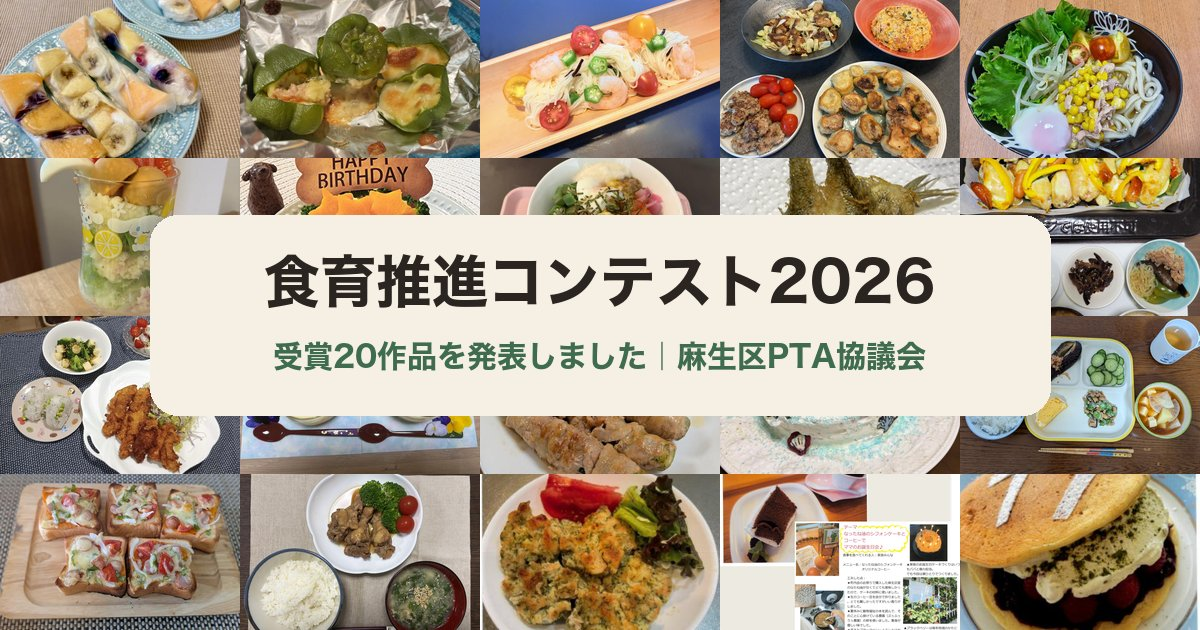
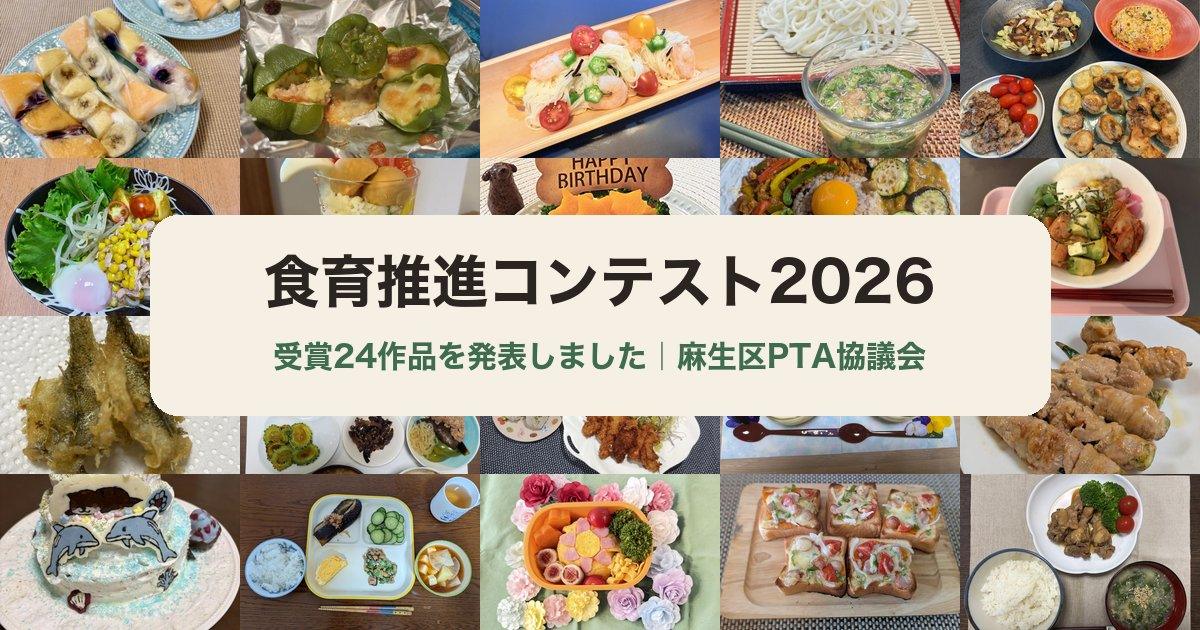
[community/pta] 食育コンテスト：転送用の受賞作品共有ページに追加4件（No.11・46・91・118）

diff --git a/jusho/index.html b/jusho/index.html
@@ -4,18 +4,18 @@
 <meta charset="UTF-8">
 <meta name="viewport" content="width=device-width, initial-scale=1.0">
 <title>受賞作品の発表｜麻生区PTA協議会・食育コンテスト2026</title>
-<meta name="description" content="麻生区PTA協議会 食育推進コンテスト2026の受賞20作品と、後援団体の皆さまからのコメントを紹介します。">
+<meta name="description" content="麻生区PTA協議会 食育推進コンテスト2026の受賞作品と、後援団体の皆さまからのコメントを紹介します。">
 <meta property="og:type" content="website">
 <meta property="og:site_name" content="麻生区PTA協議会・食育コンテスト2026">
 <meta property="og:title" content="受賞作品の発表｜麻生区PTA協議会・食育コンテスト2026">
-<meta property="og:description" content="麻生区PTA協議会 食育推進コンテスト2026の受賞20作品と、後援団体の皆さまからのコメントを紹介します。">
+<meta property="og:description" content="麻生区PTA協議会 食育推進コンテスト2026の受賞作品と、後援団体の皆さまからのコメントを紹介します。">
 <meta property="og:url" content="https://shokuiku.asaokupta.org/2026/">
 <meta property="og:image" content="https://yoshi-pta.github.io/shokuiku-contest-2026/jusho/og/top.jpg">
 <meta property="og:image:width" content="1200">
 <meta property="og:image:height" content="630">
 <meta name="twitter:card" content="summary_large_image">
 <meta name="twitter:title" content="受賞作品の発表｜麻生区PTA協議会・食育コンテスト2026">
-<meta name="twitter:description" content="麻生区PTA協議会 食育推進コンテスト2026の受賞20作品と、後援団体の皆さまからのコメントを紹介します。">
+<meta name="twitter:description" content="麻生区PTA協議会 食育推進コンテスト2026の受賞作品と、後援団体の皆さまからのコメントを紹介します。">
 <meta name="twitter:image" content="https://yoshi-pta.github.io/shokuiku-contest-2026/jusho/og/top.jpg">
 <script>location.replace("https://shokuiku.asaokupta.org/2026/" + location.search + location.hash);</script>
 </head>

diff --git a/jusho/w/011.html b/jusho/w/011.html
@@ -1,0 +1,27 @@
+<!DOCTYPE html>
+<html lang="ja">
+<head>
+<meta charset="UTF-8">
+<meta name="viewport" content="width=device-width, initial-scale=1.0">
+<title>🏆食生活改善推進委員賞「サバ味噌ニラダレつけ麺」｜麻生区PTA協議会・食育コンテスト2026</title>
+<meta name="description" content="テーマ「夏を乗り切るスタミナ昼ご飯」 麻生区PTA協議会 食育推進コンテスト2026の受賞作品です。">
+<meta property="og:type" content="website">
+<meta property="og:site_name" content="麻生区PTA協議会・食育コンテスト2026">
+<meta property="og:title" content="🏆食生活改善推進委員賞「サバ味噌ニラダレつけ麺」｜麻生区PTA協議会・食育コンテスト2026">
+<meta property="og:description" content="テーマ「夏を乗り切るスタミナ昼ご飯」 麻生区PTA協議会 食育推進コンテスト2026の受賞作品です。">
+<meta property="og:url" content="https://shokuiku.asaokupta.org/2026/w/011.html">
+<meta property="og:image" content="https://yoshi-pta.github.io/shokuiku-contest-2026/jusho/og/011.jpg">
+<meta property="og:image:width" content="1200">
+<meta property="og:image:height" content="630">
+<meta name="twitter:card" content="summary_large_image">
+<meta name="twitter:title" content="🏆食生活改善推進委員賞「サバ味噌ニラダレつけ麺」｜麻生区PTA協議会・食育コンテスト2026">
+<meta name="twitter:description" content="テーマ「夏を乗り切るスタミナ昼ご飯」 麻生区PTA協議会 食育推進コンテスト2026の受賞作品です。">
+<meta name="twitter:image" content="https://yoshi-pta.github.io/shokuiku-contest-2026/jusho/og/011.jpg">
+<script>location.replace("https://shokuiku.asaokupta.org/2026/?no=11");</script>
+</head>
+<body style="font-family:sans-serif;padding:24px">
+<p>受賞作品のページは移転しました。</p>
+<p><a id="go" href="https://shokuiku.asaokupta.org/">新しいページを開く</a></p>
+<script>document.getElementById("go").href = "https://shokuiku.asaokupta.org/2026/?no=11";</script>
+</body>
+</html>

diff --git a/jusho/w/046.html b/jusho/w/046.html
@@ -1,0 +1,27 @@
+<!DOCTYPE html>
+<html lang="ja">
+<head>
+<meta charset="UTF-8">
+<meta name="viewport" content="width=device-width, initial-scale=1.0">
+<title>🏆麻生区PTA協議会賞「低糖質カレー」｜麻生区PTA協議会・食育コンテスト2026</title>
+<meta name="description" content="テーマ「愛弟子の最高傑作、美味しい低糖質カレー！」 麻生区PTA協議会 食育推進コンテスト2026の受賞作品です。">
+<meta property="og:type" content="website">
+<meta property="og:site_name" content="麻生区PTA協議会・食育コンテスト2026">
+<meta property="og:title" content="🏆麻生区PTA協議会賞「低糖質カレー」｜麻生区PTA協議会・食育コンテスト2026">
+<meta property="og:description" content="テーマ「愛弟子の最高傑作、美味しい低糖質カレー！」 麻生区PTA協議会 食育推進コンテスト2026の受賞作品です。">
+<meta property="og:url" content="https://shokuiku.asaokupta.org/2026/w/046.html">
+<meta property="og:image" content="https://yoshi-pta.github.io/shokuiku-contest-2026/jusho/og/046.jpg">
+<meta property="og:image:width" content="1200">
+<meta property="og:image:height" content="630">
+<meta name="twitter:card" content="summary_large_image">
+<meta name="twitter:title" content="🏆麻生区PTA協議会賞「低糖質カレー」｜麻生区PTA協議会・食育コンテスト2026">
+<meta name="twitter:description" content="テーマ「愛弟子の最高傑作、美味しい低糖質カレー！」 麻生区PTA協議会 食育推進コンテスト2026の受賞作品です。">
+<meta name="twitter:image" content="https://yoshi-pta.github.io/shokuiku-contest-2026/jusho/og/046.jpg">
+<script>location.replace("https://shokuiku.asaokupta.org/2026/?no=46");</script>
+</head>
+<body style="font-family:sans-serif;padding:24px">
+<p>受賞作品のページは移転しました。</p>
+<p><a id="go" href="https://shokuiku.asaokupta.org/">新しいページを開く</a></p>
+<script>document.getElementById("go").href = "https://shokuiku.asaokupta.org/2026/?no=46";</script>
+</body>
+</html>

diff --git a/jusho/w/118.html b/jusho/w/118.html
@@ -1,0 +1,27 @@
+<!DOCTYPE html>
+<html lang="ja">
+<head>
+<meta charset="UTF-8">
+<meta name="viewport" content="width=device-width, initial-scale=1.0">
+<title>🏆笠原農園賞「やさいたっぷりナスグラタン」｜麻生区PTA協議会・食育コンテスト2026</title>
+<meta name="description" content="テーマ「夏やさいで暑さをふきとばせ！」 麻生区PTA協議会 食育推進コンテスト2026の受賞作品です。">
+<meta property="og:type" content="website">
+<meta property="og:site_name" content="麻生区PTA協議会・食育コンテスト2026">
+<meta property="og:title" content="🏆笠原農園賞「やさいたっぷりナスグラタン」｜麻生区PTA協議会・食育コンテスト2026">
+<meta property="og:description" content="テーマ「夏やさいで暑さをふきとばせ！」 麻生区PTA協議会 食育推進コンテスト2026の受賞作品です。">
+<meta property="og:url" content="https://shokuiku.asaokupta.org/2026/w/118.html">
+<meta property="og:image" content="https://yoshi-pta.github.io/shokuiku-contest-2026/jusho/og/118.jpg">
+<meta property="og:image:width" content="1200">
+<meta property="og:image:height" content="630">
+<meta name="twitter:card" content="summary_large_image">
+<meta name="twitter:title" content="🏆笠原農園賞「やさいたっぷりナスグラタン」｜麻生区PTA協議会・食育コンテスト2026">
+<meta name="twitter:description" content="テーマ「夏やさいで暑さをふきとばせ！」 麻生区PTA協議会 食育推進コンテスト2026の受賞作品です。">
+<meta name="twitter:image" content="https://yoshi-pta.github.io/shokuiku-contest-2026/jusho/og/118.jpg">
+<script>location.replace("https://shokuiku.asaokupta.org/2026/?no=118");</script>
+</head>
+<body style="font-family:sans-serif;padding:24px">
+<p>受賞作品のページは移転しました。</p>
+<p><a id="go" href="https://shokuiku.asaokupta.org/">新しいページを開く</a></p>
+<script>document.getElementById("go").href = "https://shokuiku.asaokupta.org/2026/?no=118";</script>
+</body>
+</html>

diff --git a/jusho/w/091.html b/jusho/w/091.html
@@ -1,0 +1,27 @@
+<!DOCTYPE html>
+<html lang="ja">
+<head>
+<meta charset="UTF-8">
+<meta name="viewport" content="width=device-width, initial-scale=1.0">
+<title>🏆川崎市PTA連絡協議会賞「お花畑のお弁当」｜麻生区PTA協議会・食育コンテスト2026</title>
+<meta name="description" content="テーマ「妹に贈るサプライズ弁当」 麻生区PTA協議会 食育推進コンテスト2026の受賞作品です。">
+<meta property="og:type" content="website">
+<meta property="og:site_name" content="麻生区PTA協議会・食育コンテスト2026">
+<meta property="og:title" content="🏆川崎市PTA連絡協議会賞「お花畑のお弁当」｜麻生区PTA協議会・食育コンテスト2026">
+<meta property="og:description" content="テーマ「妹に贈るサプライズ弁当」 麻生区PTA協議会 食育推進コンテスト2026の受賞作品です。">
+<meta property="og:url" content="https://shokuiku.asaokupta.org/2026/w/091.html">
+<meta property="og:image" content="https://yoshi-pta.github.io/shokuiku-contest-2026/jusho/og/091.jpg">
+<meta property="og:image:width" content="1200">
+<meta property="og:image:height" content="630">
+<meta name="twitter:card" content="summary_large_image">
+<meta name="twitter:title" content="🏆川崎市PTA連絡協議会賞「お花畑のお弁当」｜麻生区PTA協議会・食育コンテスト2026">
+<meta name="twitter:description" content="テーマ「妹に贈るサプライズ弁当」 麻生区PTA協議会 食育推進コンテスト2026の受賞作品です。">
+<meta name="twitter:image" content="https://yoshi-pta.github.io/shokuiku-contest-2026/jusho/og/091.jpg">
+<script>location.replace("https://shokuiku.asaokupta.org/2026/?no=91");</script>
+</head>
+<body style="font-family:sans-serif;padding:24px">
+<p>受賞作品のページは移転しました。</p>
+<p><a id="go" href="https://shokuiku.asaokupta.org/">新しいページを開く</a></p>
+<script>document.getElementById("go").href = "https://shokuiku.asaokupta.org/2026/?no=91";</script>
+</body>
+</html>
